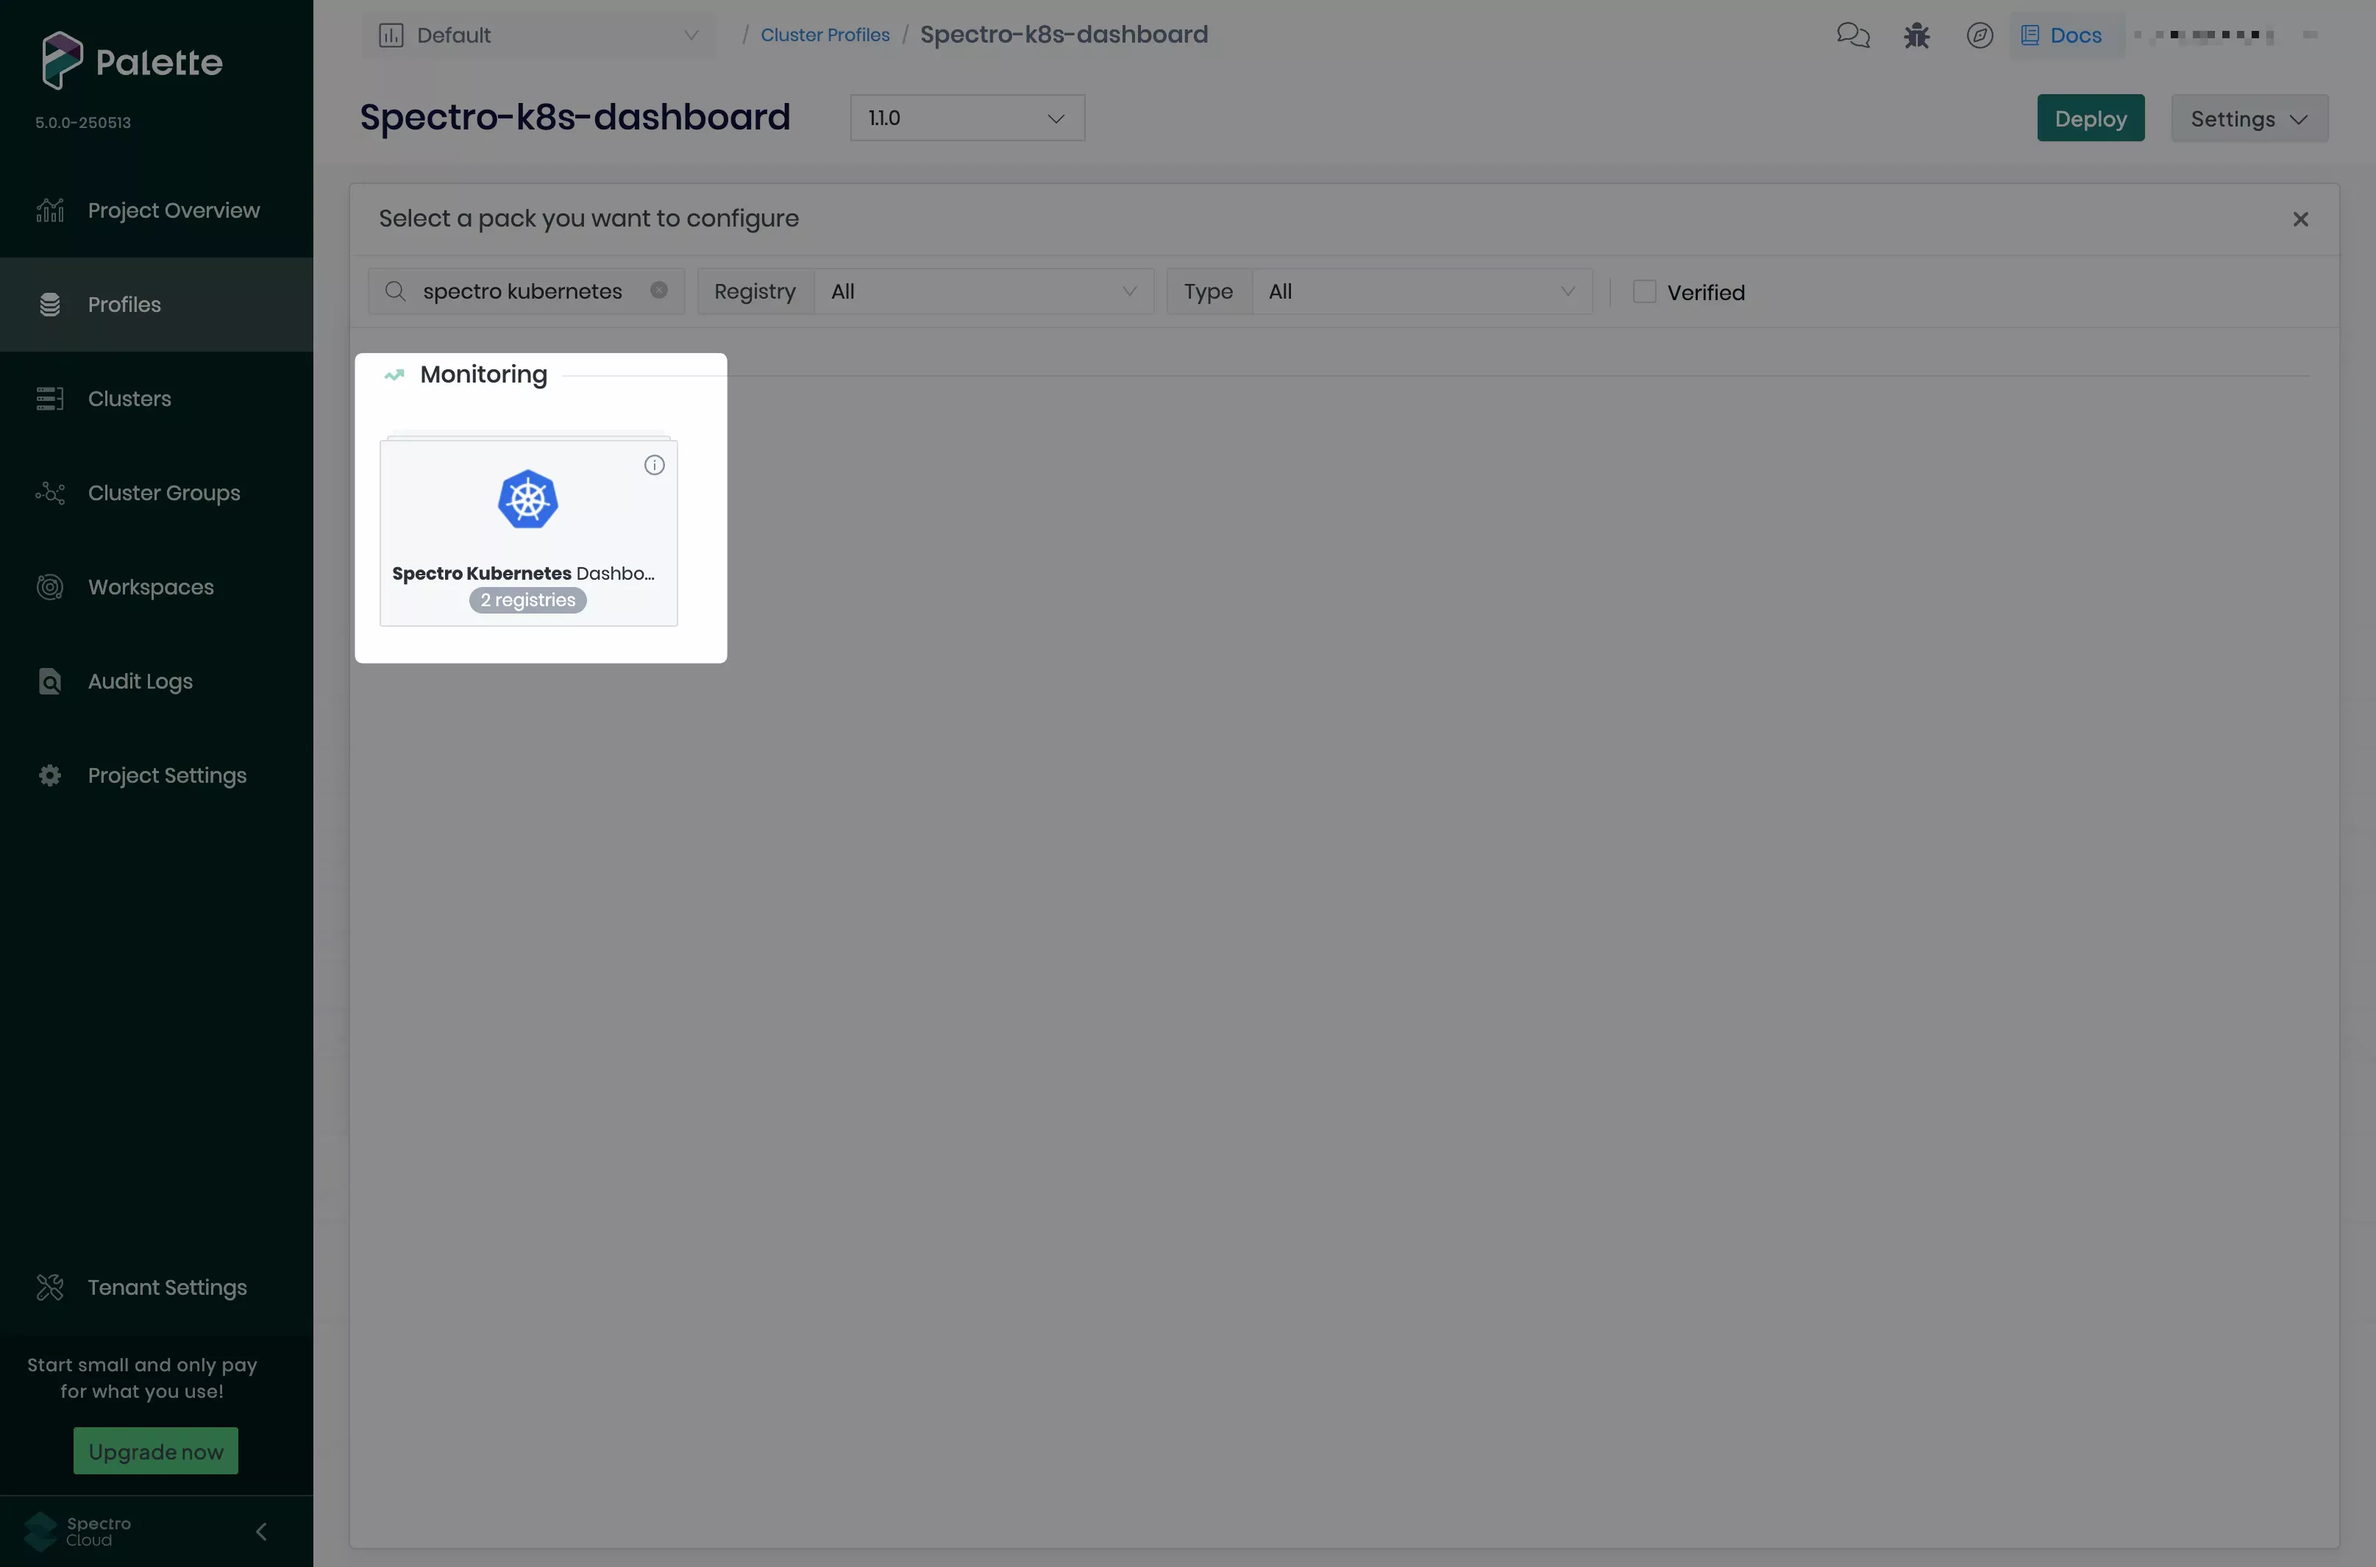
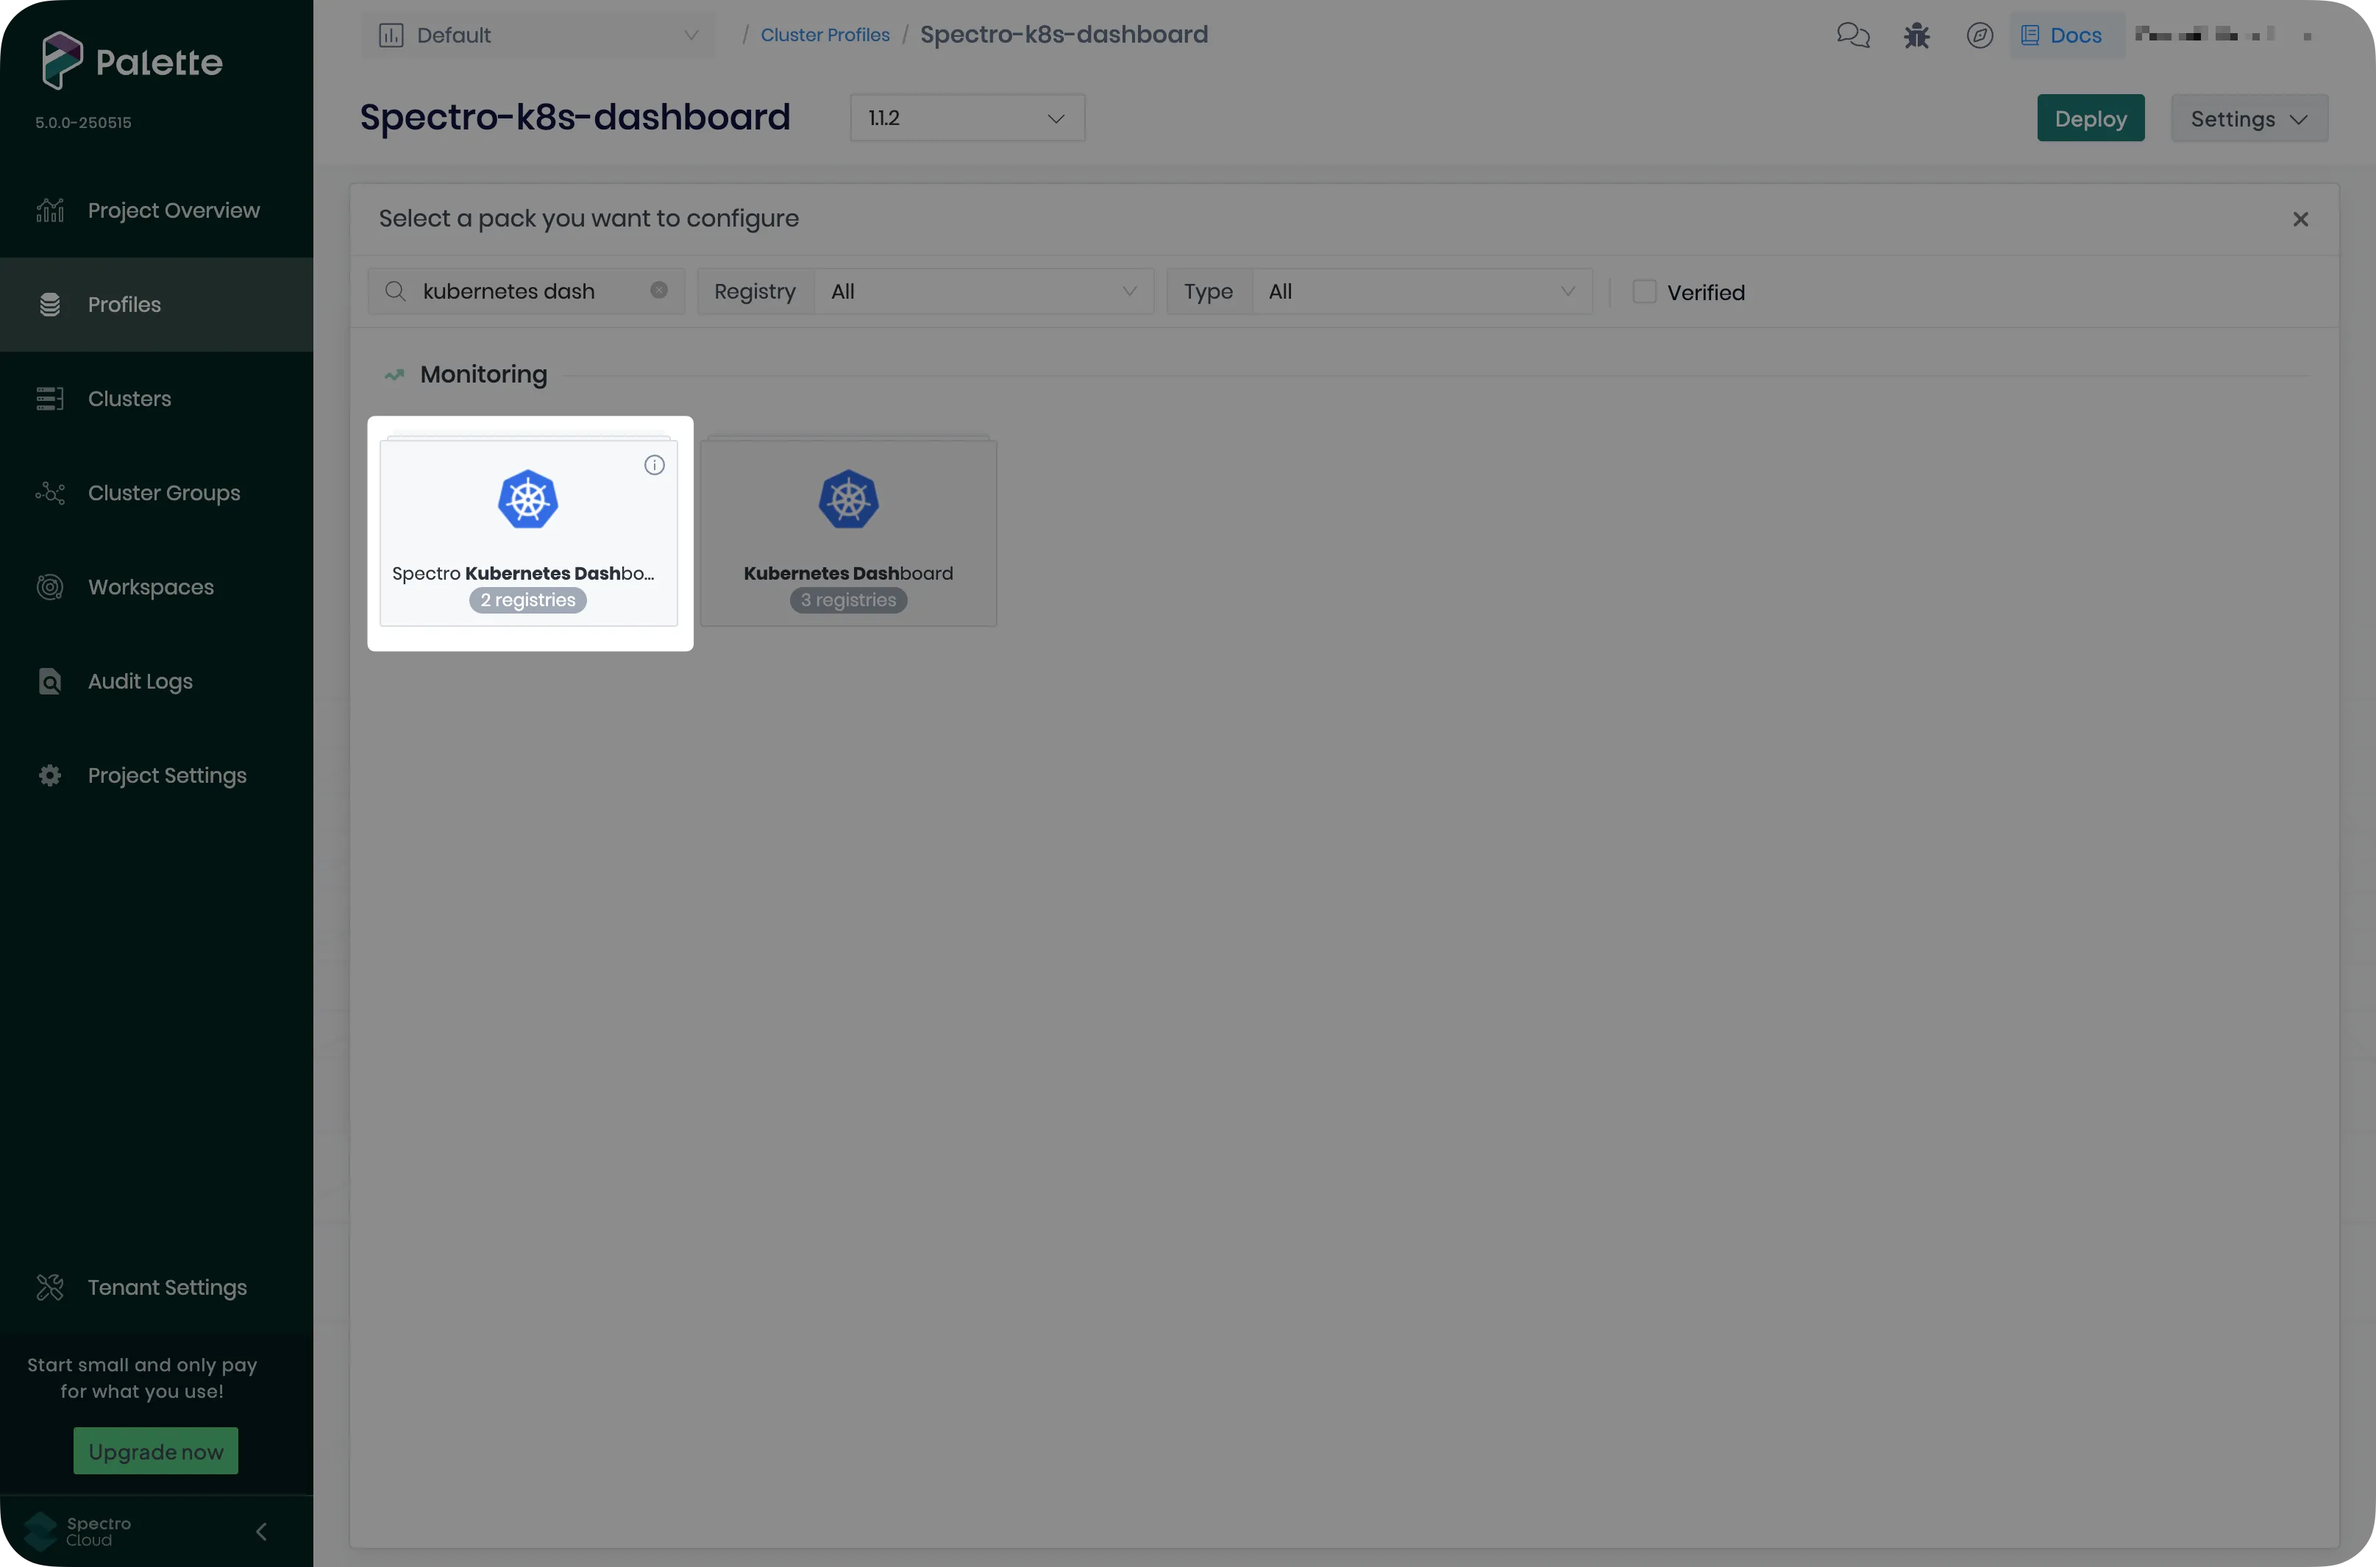
Final-PR-Review

diff --git a/docs/docs-content/clusters/cluster-management/kubernetes-dashboard.md b/docs/docs-content/clusters/cluster-management/kubernetes-dashboard.md
@@ -20,29 +20,44 @@ cluster itself.
 - [Deploy a Cluster with AWS](/getting-started/aws/deploy-k8s-cluster.md)
 - [Deploy a Cluster with GCP](/getting-started/gcp/deploy-k8s-cluster.md)
 - [Deploy a Cluster with VMware](/getting-started/vmware/deploy-k8s-cluster.md)
+  cloud provider.
+- [Deploy a Cluster with Azure](/getting-started/azure/deploy-k8s-cluster.md)
+- [Deploy a Cluster with AWS](/getting-started/aws/deploy-k8s-cluster.md)
+- [Deploy a Cluster with GCP](/getting-started/gcp/deploy-k8s-cluster.md)
+- [Deploy a Cluster with VMware](/getting-started/vmware/deploy-k8s-cluster.md)
 
 ## Enablement
 
 1. In Palette, select **Clusters** from the left Main Menu. Select the name of the cluster you want to provision the
    _Spectro Kubernetes Dashboard_ on.
+   _Spectro Kubernetes Dashboard_ on.
 
-2. Select the **Profiles** tab and identify the name of the profile your cluster is using.
+2. Select the **Profile** tab and identify the name of the profile your cluster is using.
 
 ![Image of the Palette UI, cluster overview screen with the profile name called out](/clusters_cluster-management_spectro-kubernetes-dashboard_cluster-profile.webp)
 
 3. Select **Profiles** from the left Main Menu. Select the profile your desired cluster is using.
 
-4. Select **Create new version** from the drop down menu.
+4. Select **Create new version** from the version drop down menu.
 
 5. Enter the version number you wish to use for the updated profile and select **Confirm**.
 
 6. Select **Add New Pack**
 
-7. Search for _Spectro Kubernetes Dashboard_ in the Search field.
+7. Search for _Spectro Kubernetes Dashboard_ in the Search field and select it.
 
 ![Image of the pack search screen with the search result shown](/clusters_cluster-management_spectro-kubernetes-dashboard_select-dashboard-pack.webp)
 
+:::info
+
+There are two packs for the Kubernetes dashboard. One is the _Spectro Kubernetes Dashboard_ pack, which contains the
+customizations required for the service to function. The other is the _Kubernetes Dashboard_, which contains the open
+source Kubernetes Dashboard service without any customizations. Ensure you use the _Spectro Kubernetes Dashboard_ pack.
+
+:::
+
 7. The _Spectro Kubernetes Dashboard_ pack exists in multiple registries. We recommend selecting the most recent pack
+   version available in the _Palette Registry_. Select your desired pack version, then select **Confirm**
    version available in the _Palette Registry_. Select your desired pack version, then select **Confirm**
 
 ![Image of the pack showing multiple registries](/clusters_cluster-management_spectro-kubernetes-dashboard_pack-registry-select.webp)
@@ -61,6 +76,8 @@ data store in the Kubernetes cluster. No loss of data occurs during the upgrade 
 
 ![Image highlighting the Kubernetes layer](/clusters_cluster-management_spectro-kubernetes-dashboard_kube-layer.webp)
 
+10. Ensure the **OIDC Identity Provider** is configured correctly for your organization. Select **Confirm Updates** if
+    you made changes, otherwise select **Close**.
 10. Ensure the **OIDC Identity Provider** is set to the values your organization requires. Select **Confirm Updates** if
     you made changes, otherwise select **Close**.
 
@@ -75,6 +92,7 @@ the configurations required in your environment.
 
 11. The profile overview screen reflects that the **spectro-k8s-dashboard** pack is now part of your cluster profile.
     Select **Save Changes**.
+    Select **Save Changes**.
 
 ![Image showing the final graphical state of the profile in the Palette UI](/clusters_cluster-management_spectro-kubernetes-dashboard_final-profile.webp)
 
@@ -84,19 +102,25 @@ the configurations required in your environment.
 
 14. Select the **Project** drop down menu from either the **Infrastructure Layers** or the **ADDON Layers** section.
     Select the new profile version that contains the _Spectro Kubernetes Dashboard_ pack.
+    Select the new profile version that contains the _Spectro Kubernetes Dashboard_ pack.
 
 ![Image showing the selection of the profile version to be applied to the selected cluster](/clusters_cluster-management_spectro-kubernetes-dashboard_apply-profile.webp)
 
 15. Monitor cluster status with the **Overview** tab until the _Spectro Kubernetes Dashboard 7.11.1_ indicates
     successful deployment.
+    successful deployment.
 
 16. If you have built your cluster using our tutorials, you will need to update the RBAC rules. On the cluster
+    **Overview** tab **Settings > Cluster Settings**.
     **Overview** tab **Settings > Cluster Settings**.
 
 ![Image showing the location of the settings drop down](/clusters_cluster-management_spectro-kubernetes-dashboard_cluster-settings.webp)
 
 17. Select the **RBAC** option, then select **Add New Binding**.
 
+18. Enter the **Cluster Role name** that provides the user the K8s permissions they need to use the dashboard. For our
+    tutorials we use cluster-admin. Enter the username associated with your account in the **Subject name** field.
+    Select **Confirm**. Select **Save Changes**.
 18. Enter `cluster-admin` in the **Cluster Role name** field. Enter the username associated with your account in the
     **Subject name** field. Select **Confirm**. Select **Save Changes**.
 
@@ -112,6 +136,7 @@ Once your configuration changes are applied successfully, continue to the `Valid
 
 3. On the **Overview** screen, a new row is displayed called **Kubernetes Dashboard** with a button titled **Connect**.
    Select the **Connect** button.
+   Select the **Connect** button.
 
 :::tip
 
@@ -126,8 +151,8 @@ Depending on your display settings, you may need to scroll down to expose the **
 :::info
 
 The Spectro Kubernetes Dashboard displays the `default` namespace by default. If there are no deployments in that
-namespace, a message stating "There is nothing to display here" will be displayed. Select the namespace drop-down Menu
-to review and select other namespaces in your cluster.
+namespace, a message stating "There is nothing to display here" is displayed. Select the namespace drop-down Menu to
+review and select other namespaces in your cluster.
 
 :::
 
